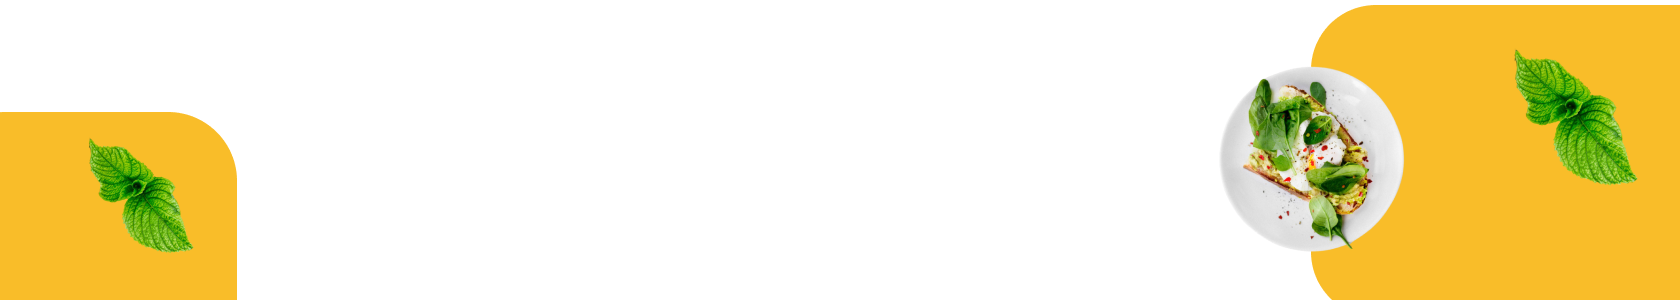
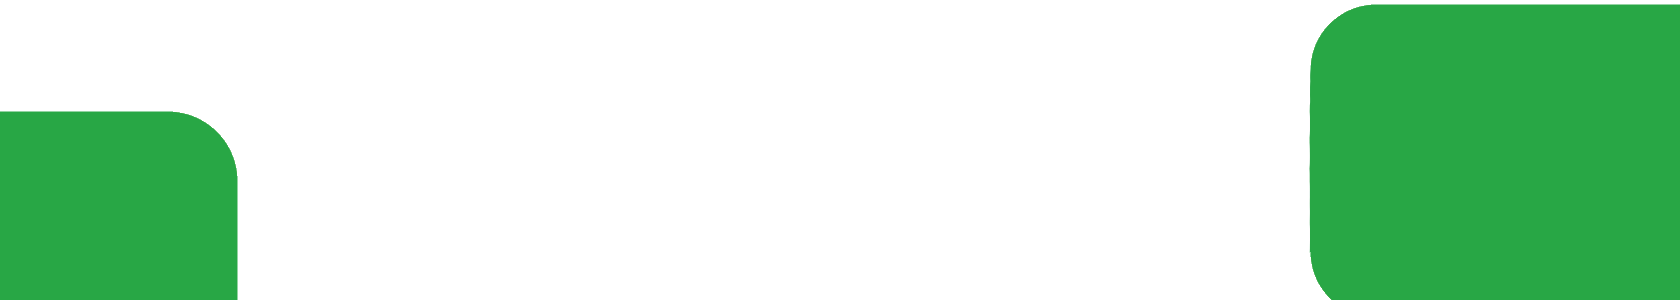
배경 수정

diff --git a/src/main/webapp/asset/css/style-liberty.css b/src/main/webapp/asset/css/style-liberty.css
@@ -16330,7 +16330,7 @@ h3.title-big {
 /* about page */
 /*-- inner-banner --*/
 .inner-banner {
-  background: url(../images/innerbanner-removebg.png) no-repeat center;
+  background: url(../images/innerbanner.png) no-repeat center;
   background-size: cover;
   -webkit-background-size: cover;
   -moz-background-size: cover;
